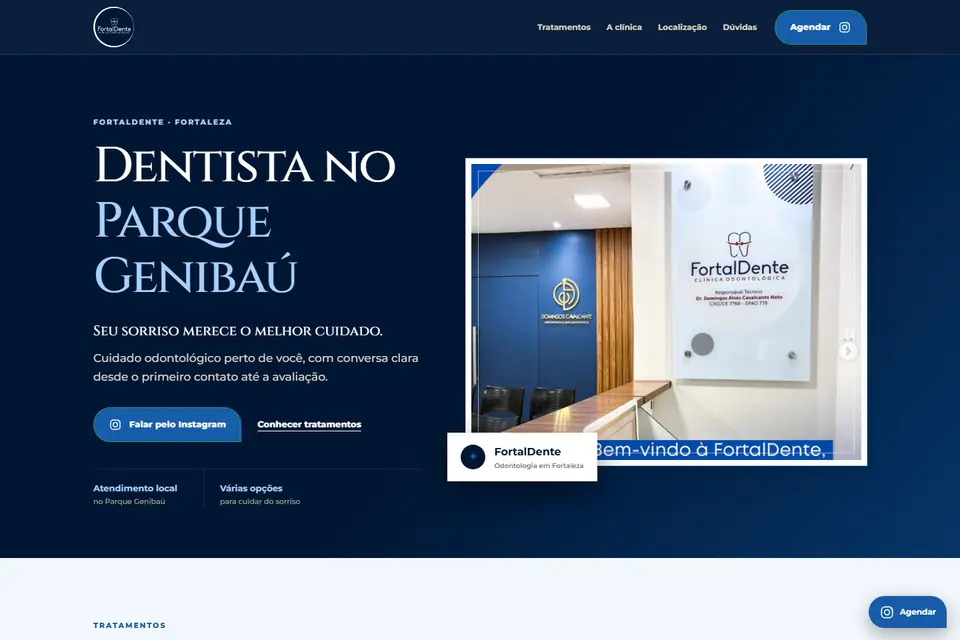
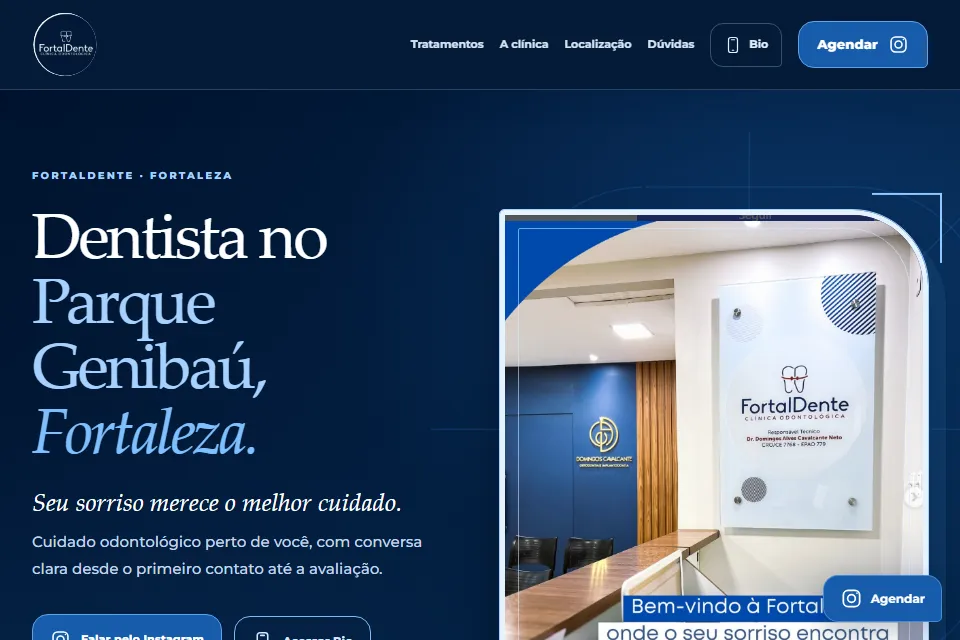
Atualizar exemplo FortalDente e incluir acesso à Bio na vitrine

diff --git a/index.html b/index.html
@@ -6,7 +6,7 @@
   <meta name="description" content="Exemplos de sites e Bios organizados por nicho para as apresentações da Viés Mídia.">
   <meta name="robots" content="noindex,nofollow"><meta name="theme-color" content="#151923">
   <link rel="icon" href="favicon.svg" type="image/svg+xml"><link rel="stylesheet" href="styles.css?v=1">
-  <script src="links.js?v=5" defer></script><script src="app.js?v=4" defer></script>
+  <script src="links.js?v=fortaldente-20261109-1" defer></script><script src="app.js?v=4" defer></script>
 </head>
 <body>
   <svg class="svg-library" xmlns="http://www.w3.org/2000/svg" aria-hidden="true"><defs><symbol id="i-burger" viewBox="0 0 24 24"><path d="M4 9c1-7 15-7 16 0Z"/><path d="M3 12h18M4 15h16M5 18h14v2H5zM9 6h.01M14 6h.01"/></symbol><symbol id="i-pizza" viewBox="0 0 24 24"><path d="m4 5 16 3L9 22zM4 5q9-5 16 3"/><circle cx="10" cy="11" r="1"/><circle cx="13.5" cy="13" r="1"/></symbol>

diff --git a/links.js b/links.js
@@ -164,11 +164,11 @@ window.VITRINE_DATA = [
     "id": "fortaldente",
     "name": "FortalDente",
     "category": "Odontologia",
-    "description": "Tratamentos e conversão no WhatsApp.",
-    "site": "https://thiagorevolutio-coder.github.io/previa-fortaldente/",
-    "bio": null,
+    "description": "Clínica, tratamentos e Bio animada na identidade azul.",
+    "site": "https://thiagorevolutio-coder.github.io/previa-fortaldente/?v=fortaldente-20261109-1",
+    "bio": "https://thiagorevolutio-coder.github.io/previa-fortaldente/bio.html?v=fortaldente-20261109-1",
     "image": "assets/fortaldente.webp",
-    "color": "#558e80"
+    "color": "#195dae"
   },
   {
     "id": "life-odonto",
